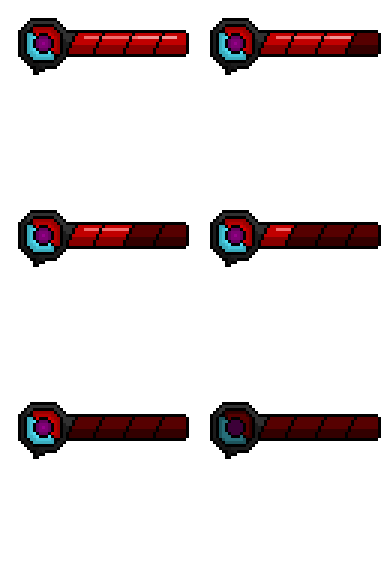
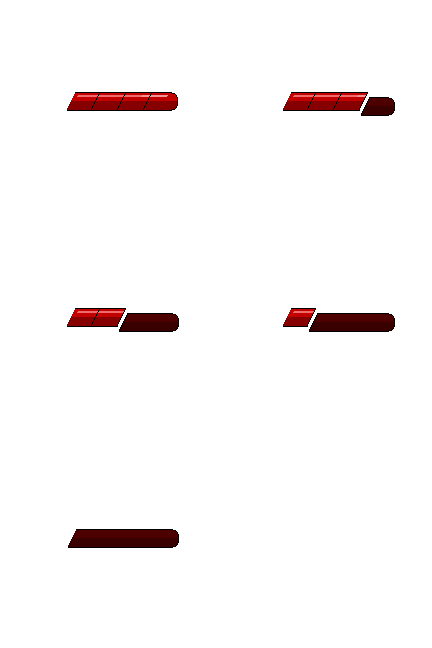
HUD NOVÃO

diff --git a/client/js/firstLevel.js b/client/js/firstLevel.js
@@ -10,6 +10,7 @@ var MUSIC_TitleOpening;
 var php_bar;
 var pmn_bar;
 var bhp_bar;
+var psp_hud;
 
 var playerX;
 var playerY;
@@ -120,12 +121,16 @@ firstLevel.preload = function () {
 
   //HUD principal
   this.load.spritesheet("PHP_Bar", "assets/hud/PHP_Bar.png", {
-    frameWidth: 192,
-    frameHeight: 192,
+    frameWidth: 216,
+    frameHeight: 216,
+  });
+  this.load.spritesheet("PSP_HUD", "assets/hud/PSP_HUD.png", {
+      frameWidth: 216,
+      frameHeight: 216,
   });
   this.load.spritesheet("PMN_Bar", "assets/hud/PMN_Bar.png", {
-    frameWidth: 192,
-    frameHeight: 192,
+    frameWidth: 216,
+    frameHeight: 216,
   });
   this.load.spritesheet("BHP_Bar", "assets/hud/BHP_Bar.png", {
     frameWidth: 384,
@@ -250,8 +255,9 @@ firstLevel.create = function () {
   platforms.create(800, 410, "ground");
 
   //HUD do jogo
-  php_bar = this.add.image(90, 90, "PHP_Bar", 0).setScrollFactor(0);
-  pmn_bar = this.add.image(90, 90, "PMN_Bar", 0).setScrollFactor(0);
+  php_bar = this.add.image(120, 45, "PHP_Bar", 0).setScrollFactor(0);
+  psp_hud = this.add.sprite(120, 45, "PSP_HUD", 0).setScrollFactor(0);
+  pmn_bar = this.add.image(120, 45, "PMN_Bar", 0).setScrollFactor(0);
   bhp_bar = this.add.image(600, 520, "BHP_Bar", 0).setScrollFactor(0);
   bhp_bar.visible = false;
 
@@ -268,6 +274,17 @@ firstLevel.create = function () {
   SFX_Step = this.sound.add("SFX_Step", { loop: false });
 
   this.cameras.main.startFollow(player);
+
+  //ANIMAÇÕES DE HUD
+  this.anims.create({
+    key: "coreSpin",
+    frames: this.anims.generateFrameNumbers("PSP_HUD", {
+      start: 0,
+      end: 11,
+    }),
+    frameRate: 15,
+    repeat: -1,
+  });
 
   //ANIMAÇÕES DE MOVIMENTO
   //Anda Esquerda
@@ -510,6 +527,10 @@ firstLevel.update = function () {
   skull.setVelocityY(0);
 
   //HUD CÓDIGO
+  if (php >= 0) {
+    psp_hud.anims.play("coreSpin", true);    
+  }
+
   if (php === 5) {
     //Vitalidade do Cavaleiro e do Mago HUD
     php_bar.setFrame(0);
@@ -522,7 +543,7 @@ firstLevel.update = function () {
   } else if (php === 1) {
     php_bar.setFrame(4);
   } else if (php <= 0) {
-    php_bar.setFrame(5);
+    psp_hud.setFrame(12);
   }
 
   if (pmn === 3) {

diff --git a/pedrao.md b/pedrao.md
@@ -1,0 +1,1 @@
+SALVE!!!
